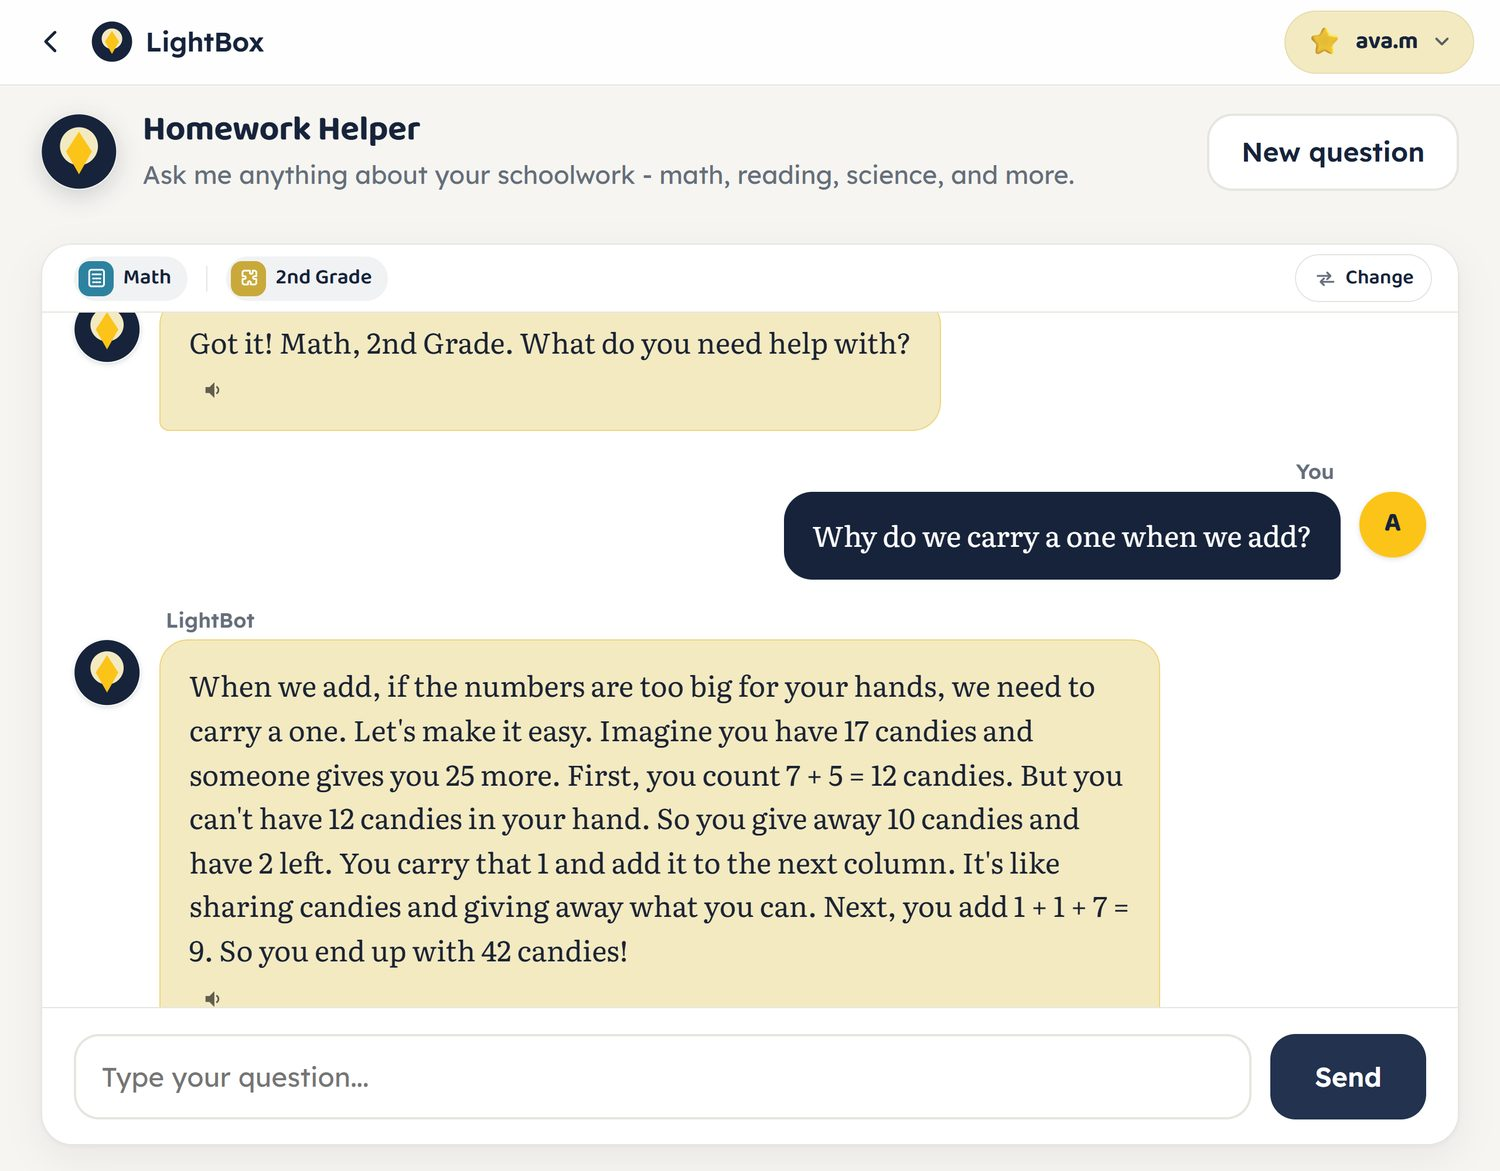
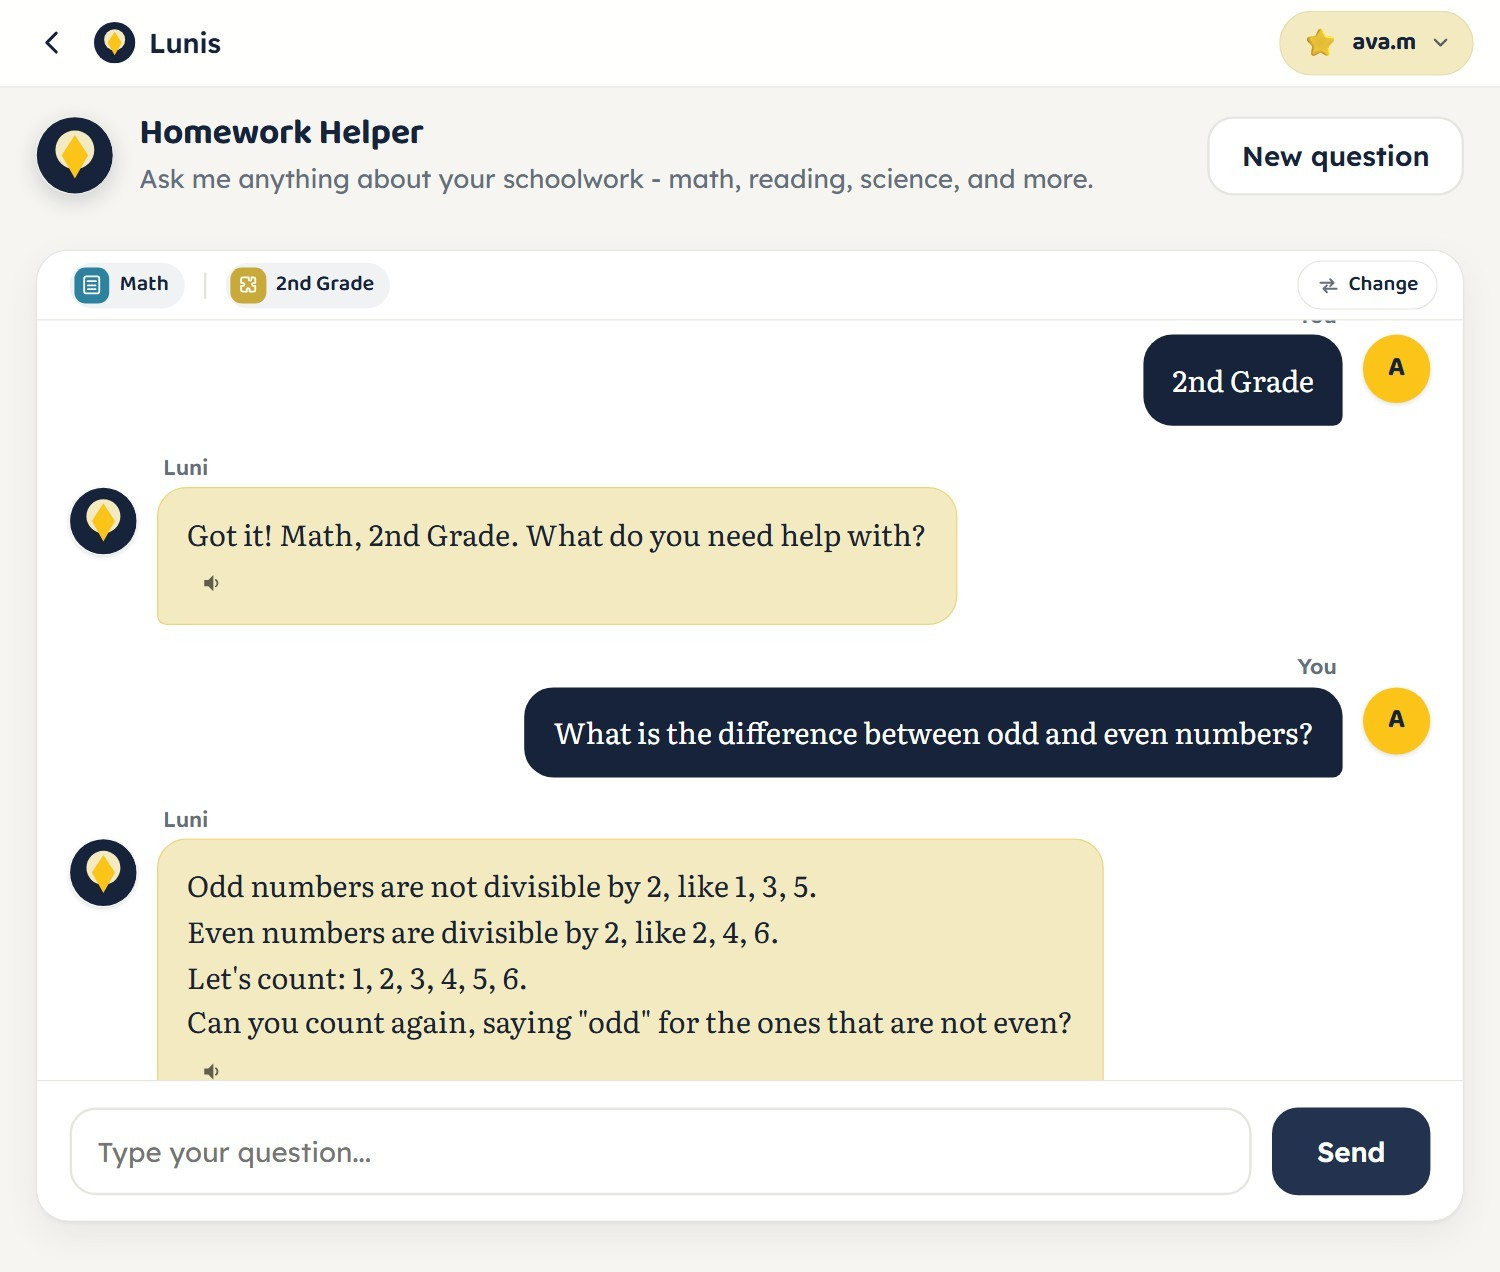
Rename the helper bot from LightBot to Luni
The homework helper introduced itself as LightBot, which the earlier
rebrand missed entirely: the string is LightBot, not LightBox, so none
of the searches matched it. It appears as BOT_NAME, in the two welcome
strings, and in several comments.

helper_welcome and math_helper_welcome are translatable, so CACHE_VER
goes to v25; otherwise French, German and Spanish would keep saying
LightBot. Checked that both keys still match between the UI dict in
server.py and DEFAULTS in app.js.

helper-conversation.jpg is recaptured against the real model on the
server, reached over an SSH tunnel, so all fifteen screenshots now show
the new names. The question is a conceptual one because the 3B model is
unreliable on multi-step arithmetic: earlier takes reached the right
total through wrong reasoning, which is not something to put in a
README for a maths tutor.

diff --git a/app/static/app.js b/app/static/app.js
@@ -69,7 +69,7 @@ const DEFAULTS = {
   grade_opt: "Grade...",
   grade_K: "Kindergarten", grade_1: "1st Grade", grade_2: "2nd Grade", grade_3: "3rd Grade",
   grade_4: "4th Grade", grade_5: "5th Grade", grade_6: "6th Grade", grade_7: "7th Grade", grade_8: "8th Grade",
-  helper_welcome: "Hi! I'm LightBot, your homework helper. Tap a subject below to get started.",
+  helper_welcome: "Hi! I'm Luni, your homework helper. Tap a subject below to get started.",
   helper_title: "Homework Helper", helper_sub: "Ask me anything about your schoolwork.",
   helper_btn: "Homework Helper", helper_ph: "Type your question...", loading: "Loading...",
   new_question: "New question", helper_you: "You",
@@ -149,7 +149,7 @@ const DEFAULTS = {
   credit_translation: "Translation:", credit_from: "From",
   close_book_aria: "Close book", prev_page_aria: "Previous page", next_page_aria: "Next page",
   // math-specific homework helper
-  math_helper_welcome: "Hi! I'm LightBot, your math helper. Tap a subject below to get started.",
+  math_helper_welcome: "Hi! I'm Luni, your math helper. Tap a subject below to get started.",
   // teacher history calendar
   hist_today: "Today", hist_all_students: "All students", hist_clear_filter: "Clear filter",
   hist_less: "Less", hist_more: "More", hist_activity_detail: "Activity detail",
@@ -3168,7 +3168,7 @@ async function ask() {
 // The helper introduces itself by name. It is a brand name like Lunis, so it is
 // substituted into the translated sentence rather than being part of it - otherwise
 // LibreTranslate would happily "translate" it.
-const BOT_NAME = "LightBot";
+const BOT_NAME = "Luni";
 let HHISTORY = [];
 let HELPER_MODE = "general";
 /* Helper session state. All three ride along with every message and are turned into a
@@ -3179,12 +3179,12 @@ let HELPER_MODE = "general";
    HGRADE is only ever set by a tap, so "grade 3" in the summary is always something the
    child actually confirmed. */
 let HSUBJECT = "", HGRADE = "", HLANG = "";
-/* Which question LightBot is currently asking. "subject" -> "grade" -> "chat"; the
+/* Which question Luni is currently asking. "subject" -> "grade" -> "chat"; the
    picker below the conversation and the input bar are both driven by this one value,
    so they can never disagree about which step we are on. */
 let HSTEP = "subject";
 // strings in the ANSWER language, used for the assistant's own opening line. The
-// screen chrome stays in the app language (STR); only what LightBot "says" follows
+// screen chrome stays in the app language (STR); only what Luni "says" follows
 // the language the student picked for answers.
 let HSTR = {}, HSTR_LANG = "";
 /* Languages VERIFIED for AI answers. Measured 2026-08-11 against Qwen2.5-3B-Q4 on the
@@ -3197,7 +3197,7 @@ let HSTR = {}, HSTR_LANG = "";
          rendered "borrow" as "bauen" (to build)
    The surface language is fluent in all three; it is the reasoning and the technical
    vocabulary that break, which is exactly the failure a child cannot catch. So the app
-   is translated into four languages but LightBot answers only in English for now.
+   is translated into four languages but Luni answers only in English for now.
    Re-enabling is this one line - but generate-in-English-then-LibreTranslate (the path
    the rest of the app already uses) is the safer way to add them. */
 const HELPER_LANGS = ["en"];
@@ -3252,7 +3252,7 @@ async function loadHelperStrings() {
   try { HSTR = await (await fetch("/api/i18n?lang=" + lang)).json(); HSTR_LANG = lang; }
   catch (e) { HSTR = {}; HSTR_LANG = ""; }                        // fall back to app language
 }
-// what LightBot SAYS follows the answer language (HSTR); screen chrome around it stays
+// what Luni SAYS follows the answer language (HSTR); screen chrome around it stays
 // in the app language. Every line the assistant speaks goes through this, so none of
 // them can be a hardcoded English string.
 function hsay(k) { return (HSTR && HSTR[k]) || t(k); }
@@ -3286,7 +3286,7 @@ function pickCard(accent, iconHtml, label, onPick) {
   b.onclick = onPick;
   return b;
 }
-/* The picker under the conversation renders whichever question LightBot just asked.
+/* The picker under the conversation renders whichever question Luni just asked.
    It is one function and one container for both steps precisely so the two steps
    cannot drift apart visually. When HSTEP is "chat" it disappears and the input bar
    takes its place. */
@@ -3309,7 +3309,7 @@ function renderHelperPicker() {
     chat.scrollTop = chat.scrollHeight;
     requestAnimationFrame(() => { chat.scrollTop = chat.scrollHeight; });
   }
-  // a text box while LightBot is still asking a question invites a child to answer in
+  // a text box while Luni is still asking a question invites a child to answer in
   // the wrong place, so it is hidden rather than merely disabled
   if (bar) bar.classList.toggle("hidden", asking);
   box.innerHTML = "";
@@ -3355,7 +3355,7 @@ function hsumChip(accent, iconHtml, label, srLabel) {
    old selects - tapping "Change" re-asks the question in the chat instead of dropping
    a form on the child. Rendered as two chips on a light strip rather than a sentence
    in a cream pill: the cream belongs to the chat bubbles directly underneath, and two
-   cream blocks stacked read as one more message from LightBot instead of a header. */
+   cream blocks stacked read as one more message from Luni instead of a header. */
 function renderHelperSummary() {
   const box = $("#hsummary"); if (!box) return;
   const has = !!(HSUBJECT || HGRADE);
@@ -3438,7 +3438,7 @@ function hbot(text) { return botBubble($("#hchat"), text); }
 // `preset` lets a caller send a question through exactly the same path a typed one
 // takes - same endpoint, same history, same streaming
 async function askHelper(preset) {
-  // nothing typed while LightBot is still asking for subject/grade can be a question
+  // nothing typed while Luni is still asking for subject/grade can be a question
   if (HSTEP !== "chat") return;
   const q = (preset || $("#hq").value).trim(); if (!q) return;
   $("#hq").value = ""; userBubble($("#hchat"), q); HHISTORY.push({ role: "user", content: q });

diff --git a/app/static/style.css b/app/static/style.css
@@ -1681,7 +1681,7 @@ main { }
    UI patterns (a different radius, a pill shape, a different icon tile) belongs
    nowhere near here. */
 .hsubjects { padding: var(--sp-3) var(--sp-5) var(--sp-5); flex: none; }
-/* While LightBot is asking a question the cards, not the transcript, own the spare
+/* While Luni is asking a question the cards, not the transcript, own the spare
    height: the message list stops claiming the free space and shrinks toward its
    content, and the picker takes what it needs and only scrolls if even that is not
    enough. Without this the message list wins the flex fight, the picker overflows the
@@ -1752,7 +1752,7 @@ main { }
 
    Deliberately white with a single hairline underneath rather than the cream pill it
    replaced: the chat bubbles immediately below are cream, so a cream block above them
-   read as one more bubble from LightBot instead of a header. Chrome above content
+   read as one more bubble from Luni instead of a header. Chrome above content
    should recede; only the content is cream. */
 /* no radius of its own: .helper-card already clips to --radius-lg with overflow:hidden,
    and a second, smaller radius here shows as a mismatched corner inside it */

diff --git a/app/static/index.html b/app/static/index.html
@@ -753,7 +753,7 @@
       <div id="hchat" class="hchat"></div>
       <div id="hsubjects" class="hsubjects hidden"></div>
       <!-- hidden until subject AND grade are chosen: a blank box is the wrong thing to
-           offer while LightBot is still asking a question -->
+           offer while Luni is still asking a question -->
       <div id="hbar" class="hbar hidden">
         <input id="hq" class="field hfield" data-i18n-ph="helper_ph" placeholder="Type your question..." autocomplete="off">
         <button id="hsend" class="btn primary hsend" data-i18n="ask_btn">Send</button>

diff --git a/app/server.py b/app/server.py
@@ -12,7 +12,7 @@ import json, os, re, threading, time, queue, datetime, hashlib, random, secrets,
 from http.server import BaseHTTPRequestHandler, ThreadingHTTPServer
 from urllib.parse import urlparse, parse_qs
 
-CACHE_VER = "v24"   # bump to discard stale/partial language caches and rebuild
+CACHE_VER = "v25"   # bump to discard stale/partial language caches and rebuild
 
 ROOT = os.path.dirname(os.path.abspath(__file__))
 BASE = os.path.dirname(ROOT)
@@ -207,7 +207,7 @@ UI = {
  # The bot's name is written into the sentence rather than substituted: LibreTranslate
  # DROPS a {placeholder} in French and Spanish ("Je suis ton aide aux devoirs"), but
  # carries the proper noun through cleanly and puts it in the right grammatical slot.
- "helper_welcome": "Hi! I'm LightBot, your homework helper. Tap a subject below to get started.",
+ "helper_welcome": "Hi! I'm Luni, your homework helper. Tap a subject below to get started.",
  "helper_ph": "Type your question...",
  # homework helper chat chrome: speaker labels above each bubble, the reset button,
  # and the subject cards shown as the first step of the conversation
@@ -316,7 +316,7 @@ UI = {
  "credit_translation": "Translation:", "credit_from": "From",
  "close_book_aria": "Close book", "prev_page_aria": "Previous page", "next_page_aria": "Next page",
  # math-specific homework helper (general helper already has helper_title/helper_welcome)
- "math_helper_welcome": "Hi! I'm LightBot, your math helper. Tap a subject below to get started.",
+ "math_helper_welcome": "Hi! I'm Luni, your math helper. Tap a subject below to get started.",
  # teacher history calendar
  "hist_today": "Today", "hist_all_students": "All students", "hist_clear_filter": "Clear filter",
  "hist_less": "Less", "hist_more": "More", "hist_activity_detail": "Activity detail", "hist_activity_report_suffix": "activity report",
